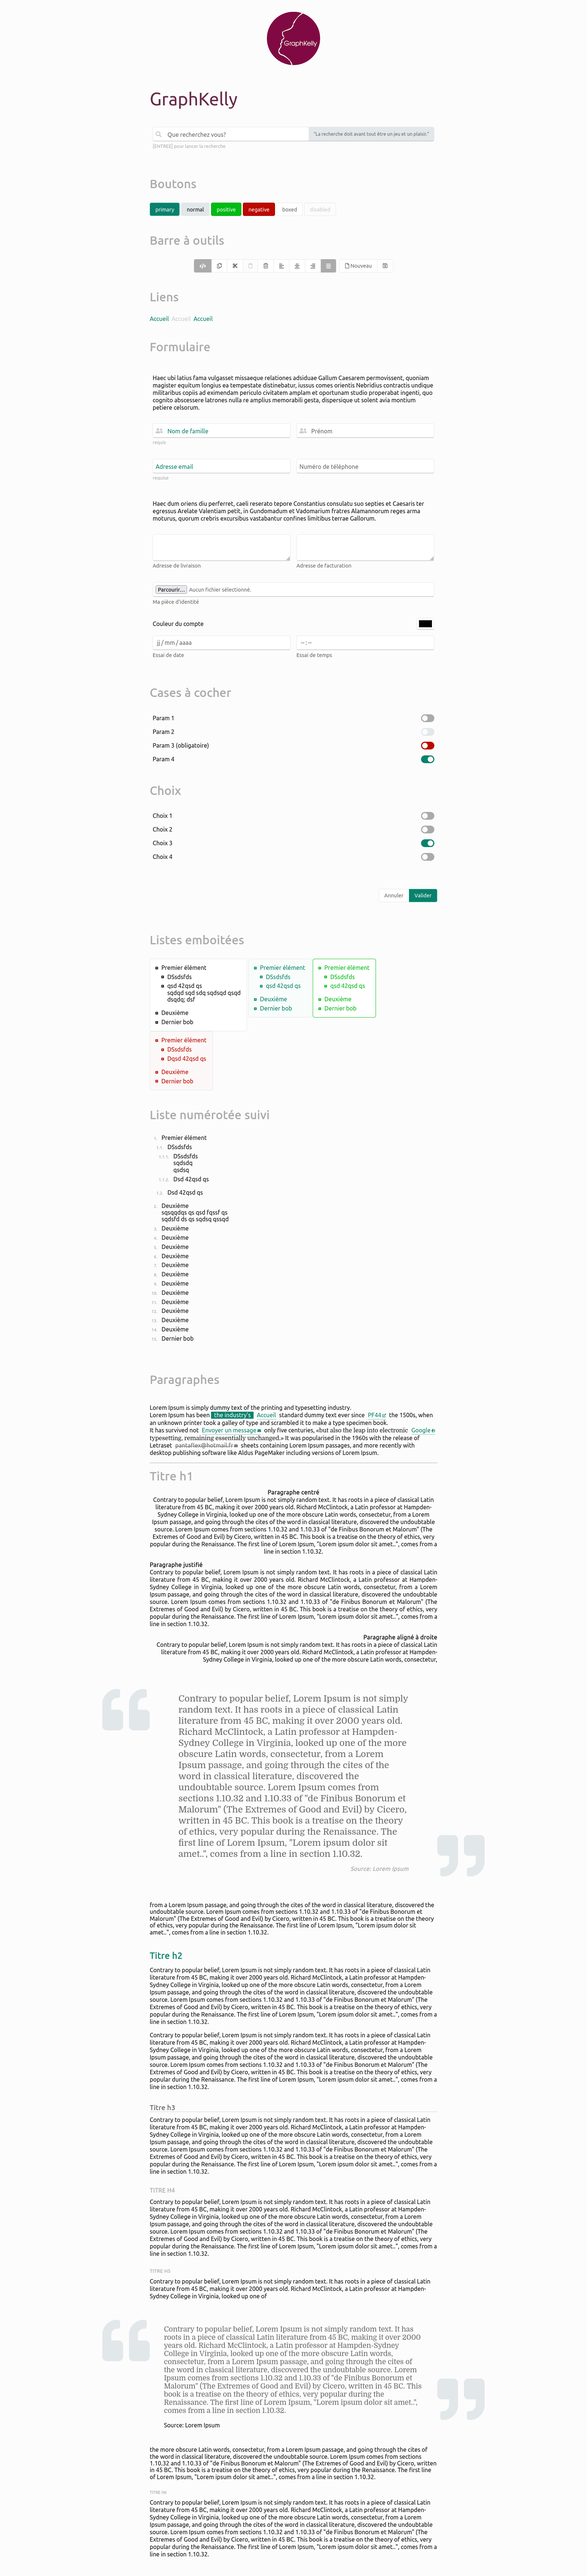
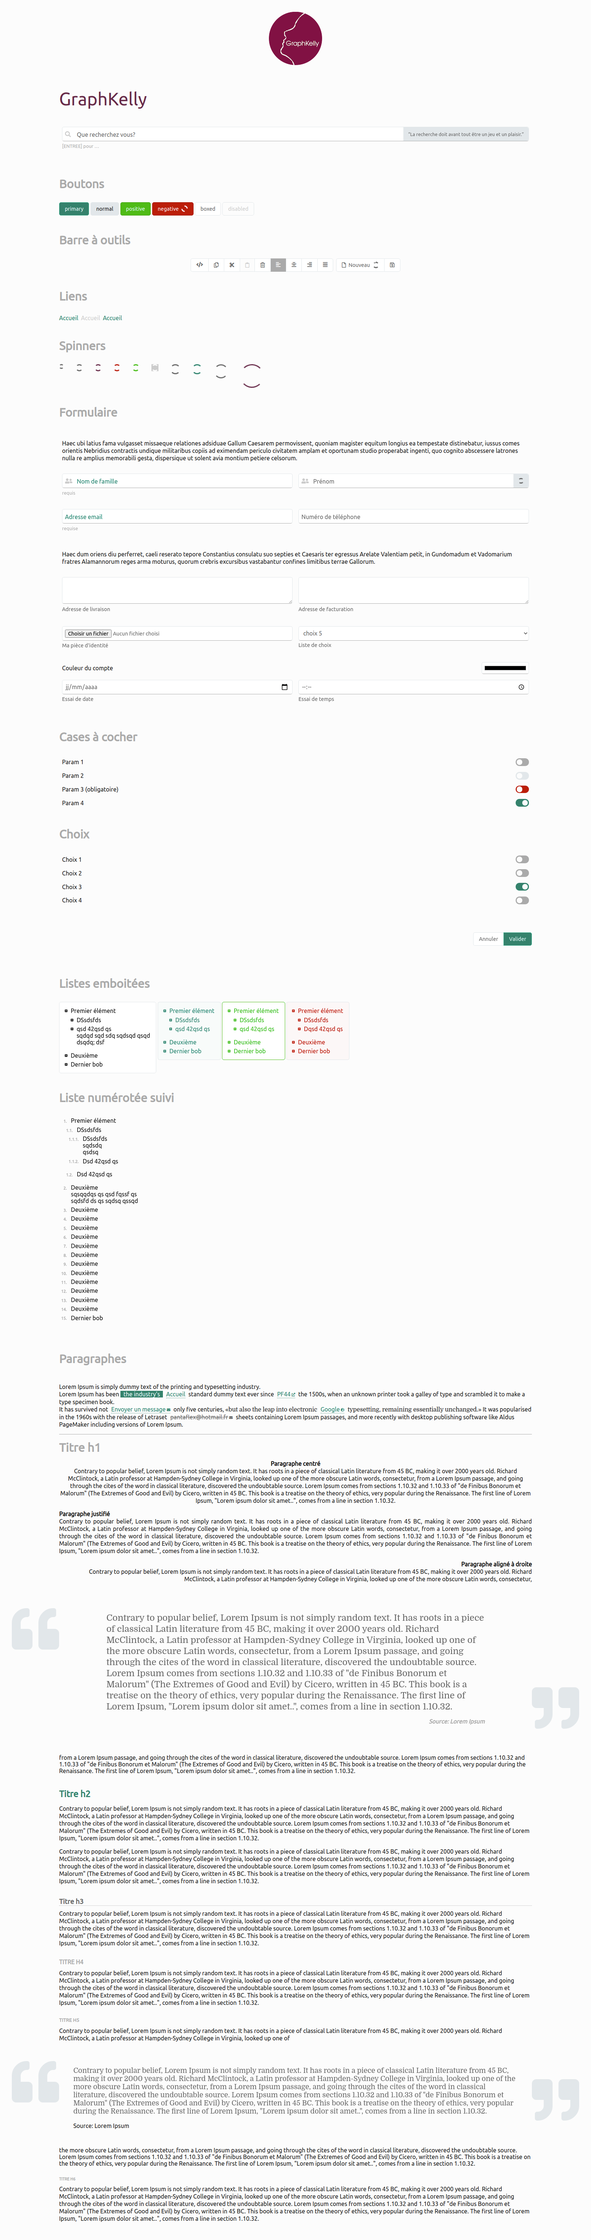
Ajout des listes de choix

diff --git a/gk1/style.css b/gk1/style.css
@@ -75,6 +75,16 @@ html {
 	line-height: 1.15;
 }
 
+/* Corps de la page */
+.ui {
+	font-size: 1.0em;
+	font-weight: normal;
+	font-style: normal;
+	color: var(--black);
+	background-color: var(--white);
+	overflow: auto;
+}
+
 .ui *:focus {
     outline: none;
 }
@@ -135,15 +145,6 @@ html {
 .ui [data-tooltip-negative]:hover::before {
 	background-color: var(--negative-lighter);
 	content: attr(data-tooltip-negative);
-}
-
-/* Corps de la page */
-.ui {
-	font-size: 1.0em;
-	font-weight: normal;
-	font-style: normal;
-	color: var(--black);
-	background-color: var(--white);
 }
 
 /* Suppression de la couleur de fond lors de l'auto completion sous Chrome */
@@ -643,24 +644,29 @@ html {
 
 /* Entrées d'un formulaire */
 .ui form input:not([type=checkbox]):not([type=radio]):not([type=button]):not(:disabled):not([disabled]):required + label,
-.ui form textarea:required + label {
+.ui form textarea:required + label,
+.ui form select:required + label {
 	color: var(--primary-lighter);
 }
 .ui form input:not([type=checkbox]):not([type=radio]):not([type=button]):not(:disabled):not([disabled]):focus:invalid + label,
-.ui form textarea:focus:invalid + label {
+.ui form textarea:focus:invalid + label,
+.ui form select:focus:invalid + label {
 	color: var(--negative-lighter);
 }
 .ui form input:not([type=checkbox]):not([type=radio]):not([type=button]):not(:disabled):not([disabled]):focus:invalid,
-.ui form textarea:focus:invalid {
+.ui form textarea:focus:invalid,
+.ui form select:focus:invalid {
 	border-color: var(--negative-lighter);
 }
 .ui form input:not([type=checkbox]):not([type=radio]):not([type=button]),
-.ui form textarea {
+.ui form textarea,
+.ui form select {
     outline: none;
 	height: 39px;
 	background-color: var(--true-white);
 	color: var(--dark);
 	width: 100%;
+	min-width: 8em;
 	padding: 0 0.5em;
 	border: 1px solid var(--lighter);
 	border-bottom-color: var(--focus);
@@ -672,7 +678,8 @@ html {
 .ui form textarea[disabled],
 .ui form textarea[disabled]:hover,
 .ui form textarea[disabled]:focus,
-.ui form textarea[disabled]:active {
+.ui form textarea[disabled]:active,
+.ui form select[disabled] {
 	background-color: var(--white);
 	border: 1px solid var(--lighter);
 	color: var(--focus);
@@ -684,13 +691,15 @@ html {
 .ui form textarea[disabled] + label,
 .ui form textarea[disabled]:hover + label,
 .ui form textarea[disabled]:focus + label,
-.ui form textarea[disabled]:active + label {
+.ui form textarea[disabled]:active + label,
+.ui form select[disabled] + label {
 	color: var(--focus);
 	cursor: not-allowed !important;
 	pointer-events: none;
 }
 .ui form input:not([type=checkbox]):not([type=radio]):not([type=button]):not(:disabled):not([disabled]):hover,
-.ui form textarea:hover {
+.ui form textarea:hover,
+.ui form select:hover {
 	color: var(--black);
 	border-color: var(--focus);
 	border-bottom-color: var(--dark);
@@ -698,13 +707,16 @@ html {
 .ui form input:not([type=checkbox]):not([type=radio]):not([type=button]):not(:disabled):not([disabled]):focus,
 .ui form input:not([type=checkbox]):not([type=radio]):not([type=button]):not(:disabled):not([disabled]):active,
 .ui form textarea:focus,
-.ui form textarea:active {
+.ui form textarea:active,
+.ui form select:active,
+.ui form select:focus {
 	background-color: var(--true-white);
 	color: var(--black);
 	border-color: var(--dark);
 }
 .ui form input:not([type=checkbox]):not([type=radio]):not([type=button])::placeholder,
-.ui form textarea::placeholder {
+.ui form textarea::placeholder,
+.ui form select:placeholder {
 	color: var(--focus);
 	font-size: 0.8em;
 	opacity: 1;
@@ -823,6 +835,10 @@ html {
 	color: var(--dark);
 	cursor: text;
 	font-size: 1em;
+	overflow: hidden;
+	text-overflow: ellipsis;
+	white-space: nowrap;
+	max-width: calc(100% - 0.75em - 0.75em);
 }
 .ui form label > small {
 	display: block;
@@ -832,6 +848,10 @@ html {
 	color: var(--focus);
 	vertical-align: middle;
 	cursor: text;
+	overflow: hidden;
+	text-overflow: ellipsis;
+	white-space: nowrap;
+	max-width: 8em;
 }
 .ui form label > .icon {
 	position: absolute;
@@ -863,6 +883,7 @@ html {
 }
 .ui form label > .icon ~ span {
 	padding-left: 2em;
+	max-width: calc(100% - 2.1em - 0.75em);
 }
 .ui form label > .icon ~ input:not([type=checkbox]):not([type=radio]):not([type=button]) {
 	padding-left: 2.5em;
@@ -1104,7 +1125,7 @@ html {
 	border-radius: var(--border-radius);
 	gap: 1em;
 }
-.ui .form-row > .textarea-box {
+.ui .form-row > .box {
 	width: 100%;
 }
 .ui .form-row.marked:hover {
@@ -1167,4 +1188,10 @@ html {
 .ui div.spinner.invert:after {
 	border: 3px solid var(--true-white);
     border-color: var(--true-white) transparent var(--true-white) transparent;
+}
+
+@media screen and (max-width: 376px) {
+	.ui form label > div.legend {
+		display: none;
+	}
 }

diff --git a/gk1/index.html b/gk1/index.html
@@ -27,13 +27,13 @@
 	</head>
 	<body class="ui" style="padding: 1em;">
 
-		<div style="margin: auto; width: 50%">
+		<div style="margin: auto; width: 80vw">
 			<fieldset>
 				<img src="./graphkelly144.png" title="GraphKelly 1 - OpenSource CSS stylesheet by Christophe LEMOINE (pantaflex/44 <pantaflex@tuta.io>)" style="display: block; margin: 0 auto;" />
 			</fieldset>
 		</div>
 
-		<div style="margin: auto; width: 50%">
+		<div style="margin: auto; width: 80vw">
 			<form action="#">
 				<fieldset>
 					<legend class="style gk big normal">GraphKelly</legend>
@@ -50,7 +50,7 @@
 			</form>
 		</div>
 
-		<div style="margin: auto; width: 50%">
+		<div style="margin: auto; width: 80vw">
 			<fieldset>
 				<legend>Boutons</legend>
 				<button class="primary" tabindex="0">primary</button>
@@ -93,7 +93,7 @@
 
 			<fieldset>
 				<legend>Spinners</legend>
-				<div style="display: flex; flex-flow: row; gap: 2em;">
+				<div style="display: flex; flex-flow: row wrap; gap: 2em;">
 					<div class="spinner small"></div>
 					<div class="spinner"></div>
 					<div class="spinner gk"></div>
@@ -151,11 +151,11 @@
 							vastabantur confines limitibus terrae Gallorum.</p>
 					</div>
 					<div class="form-row">
-						<div class="textarea-box" data-tooltip="Mon textarea">
+						<div class="box" data-tooltip="Mon textarea">
 							<textarea id="txta" name="txta" placeholder=" "></textarea>
 							<label for="txta">Adresse de livraison</label>
 						</div>
-						<div class="textarea-box">
+						<div class="box">
 							<textarea id="txta" name="txta" placeholder=" "></textarea>
 							<label for="txta">Adresse de facturation</label>
 						</div>
@@ -165,6 +165,16 @@
 				            <input type="file" id="file" placeholder=" ">
 				            <span>Ma pièce d'identité</span>
 				        </label>
+						<div class="box">
+							<select id="slct" placeholder=" ">
+								<option>choix 1</option>
+								<option>choix 2</option>
+								<option>choix 3</option>
+								<option>choix 4</option>
+								<option>choix 5</option>
+							</select>
+							<label for="slct">Liste de choix</label>
+						</div>
 					</div>
 					<div class="form-row marked">
 						<div>Couleur du compte</div>
@@ -262,7 +272,7 @@
 			</form>
 		</div>
 
-		<div style="margin: auto; width: 50%">
+		<div style="margin: auto; width: 80vw">
 			<fieldset>
 				<legend>Listes emboitées</legend>
 				<ul class="style boxed">
@@ -311,7 +321,7 @@
 			</fieldset>
 		</div>
 
-		<div style="margin: auto; width: 50%">
+		<div style="margin: auto; width: 80vw">
 			<fieldset>
 				<legend>Liste numérotée suivi</legend>
 				<ol>
@@ -346,7 +356,7 @@
 			<fieldset>
 		</div>
 
-		<div style="margin: auto; width: 50%">
+		<div style="margin: auto; width: 80vw">
 			<fieldset>
 				<legend>Paragraphes</legend>
 				<p data-tooltip="essai p">

diff --git a/README.md b/README.md
@@ -34,4 +34,4 @@ GraphKelly est sous Licence GNU/GPL v3.
 
 ## Capture d'écran
 
-<!-- ![Capture d'écran](https://github.com/pantaflex44/GraphKelly/blob/main/screenshot.png) -->
+![Capture d'écran](https://github.com/pantaflex44/GraphKelly/blob/main/screenshot.png)
